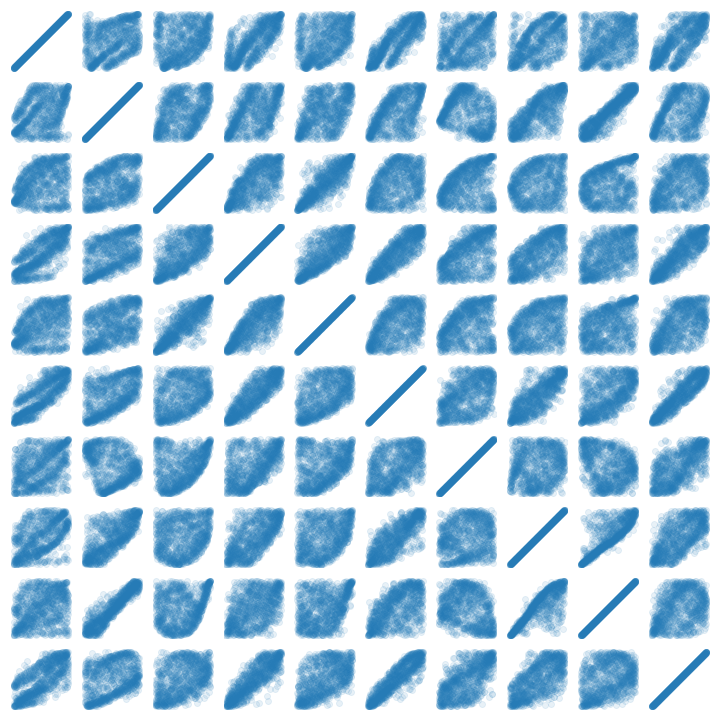
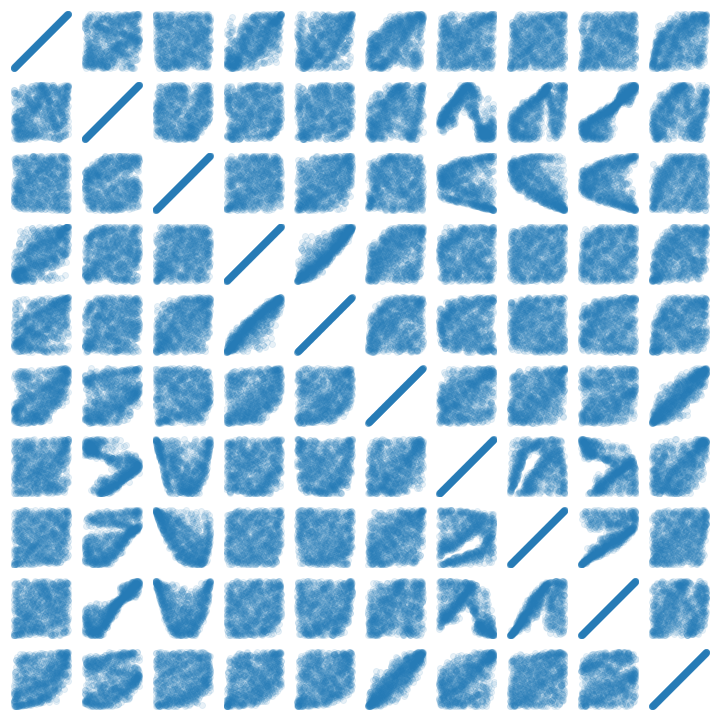
minor updates

diff --git a/copula/copula_modules/copula.py b/copula/copula_modules/copula.py
@@ -18,8 +18,27 @@ class Discriminator(nn.Module):
         self.config = config
         self.device = device
         
+        # self.mlp = nn.Sequential(
+        #     nn.Linear(config["data_dim"] + config["latent_dim"], 128),
+        #     nn.LeakyReLU(0.1),
+        #     nn.Linear(128, 128),
+        #     nn.LeakyReLU(0.1),
+        #     nn.Linear(128, 128),
+        #     nn.LeakyReLU(0.1),
+        #     nn.Linear(128, 128),
+        #     nn.LeakyReLU(0.1),
+        #     nn.Linear(128, 128),
+        #     nn.LeakyReLU(0.1),
+        #     nn.Linear(128, 128),
+        #     nn.LeakyReLU(0.1),
+        #     nn.Linear(128, 1),
+        #     nn.Sigmoid(),
+        # ).to(device)
+        
         self.mlp1 = nn.Sequential(
             nn.Linear(config["data_dim"], 128),
+            nn.LeakyReLU(0.1),
+            nn.Linear(128, 128),
             nn.LeakyReLU(0.1),
             nn.Linear(128, 128),
             nn.LeakyReLU(0.1),
@@ -30,17 +49,20 @@ class Discriminator(nn.Module):
         ).to(device)
         
         self.mlp2 = nn.Sequential(
-            nn.Linear(2 * config["latent_dim"], 32),
+            nn.Linear(2 * config["latent_dim"], 128),
             nn.LeakyReLU(0.1),
-            nn.Linear(32, 32),
+            nn.Linear(128, 128),
             nn.LeakyReLU(0.1),
-            nn.Linear(32, 32),
+            nn.Linear(128, 128),
             nn.LeakyReLU(0.1),
-            nn.Linear(32, 1),
+            nn.Linear(128, 128),
+            nn.LeakyReLU(0.1),
+            nn.Linear(128, 1),
             nn.Sigmoid(),
         ).to(device)
         
     def forward(self, data):
+        # h = self.mlp(data)
         h = self.mlp1(data[:, : self.config["data_dim"]])
         h = torch.cat([h, data[:, self.config["data_dim"] : ]], dim=1)
         h = self.mlp2(h)

diff --git a/copula/main.py b/copula/main.py
@@ -60,7 +60,7 @@ def get_args(debug):
     parser.add_argument("--latent_dim", default=2, type=int,
                         help="the latent dimension size")
     
-    parser.add_argument('--epochs', default=150, type=int,
+    parser.add_argument('--epochs', default=200, type=int,
                         help='the number of epochs')
     parser.add_argument('--batch_size', default=256, type=int,
                         help='batch size')
